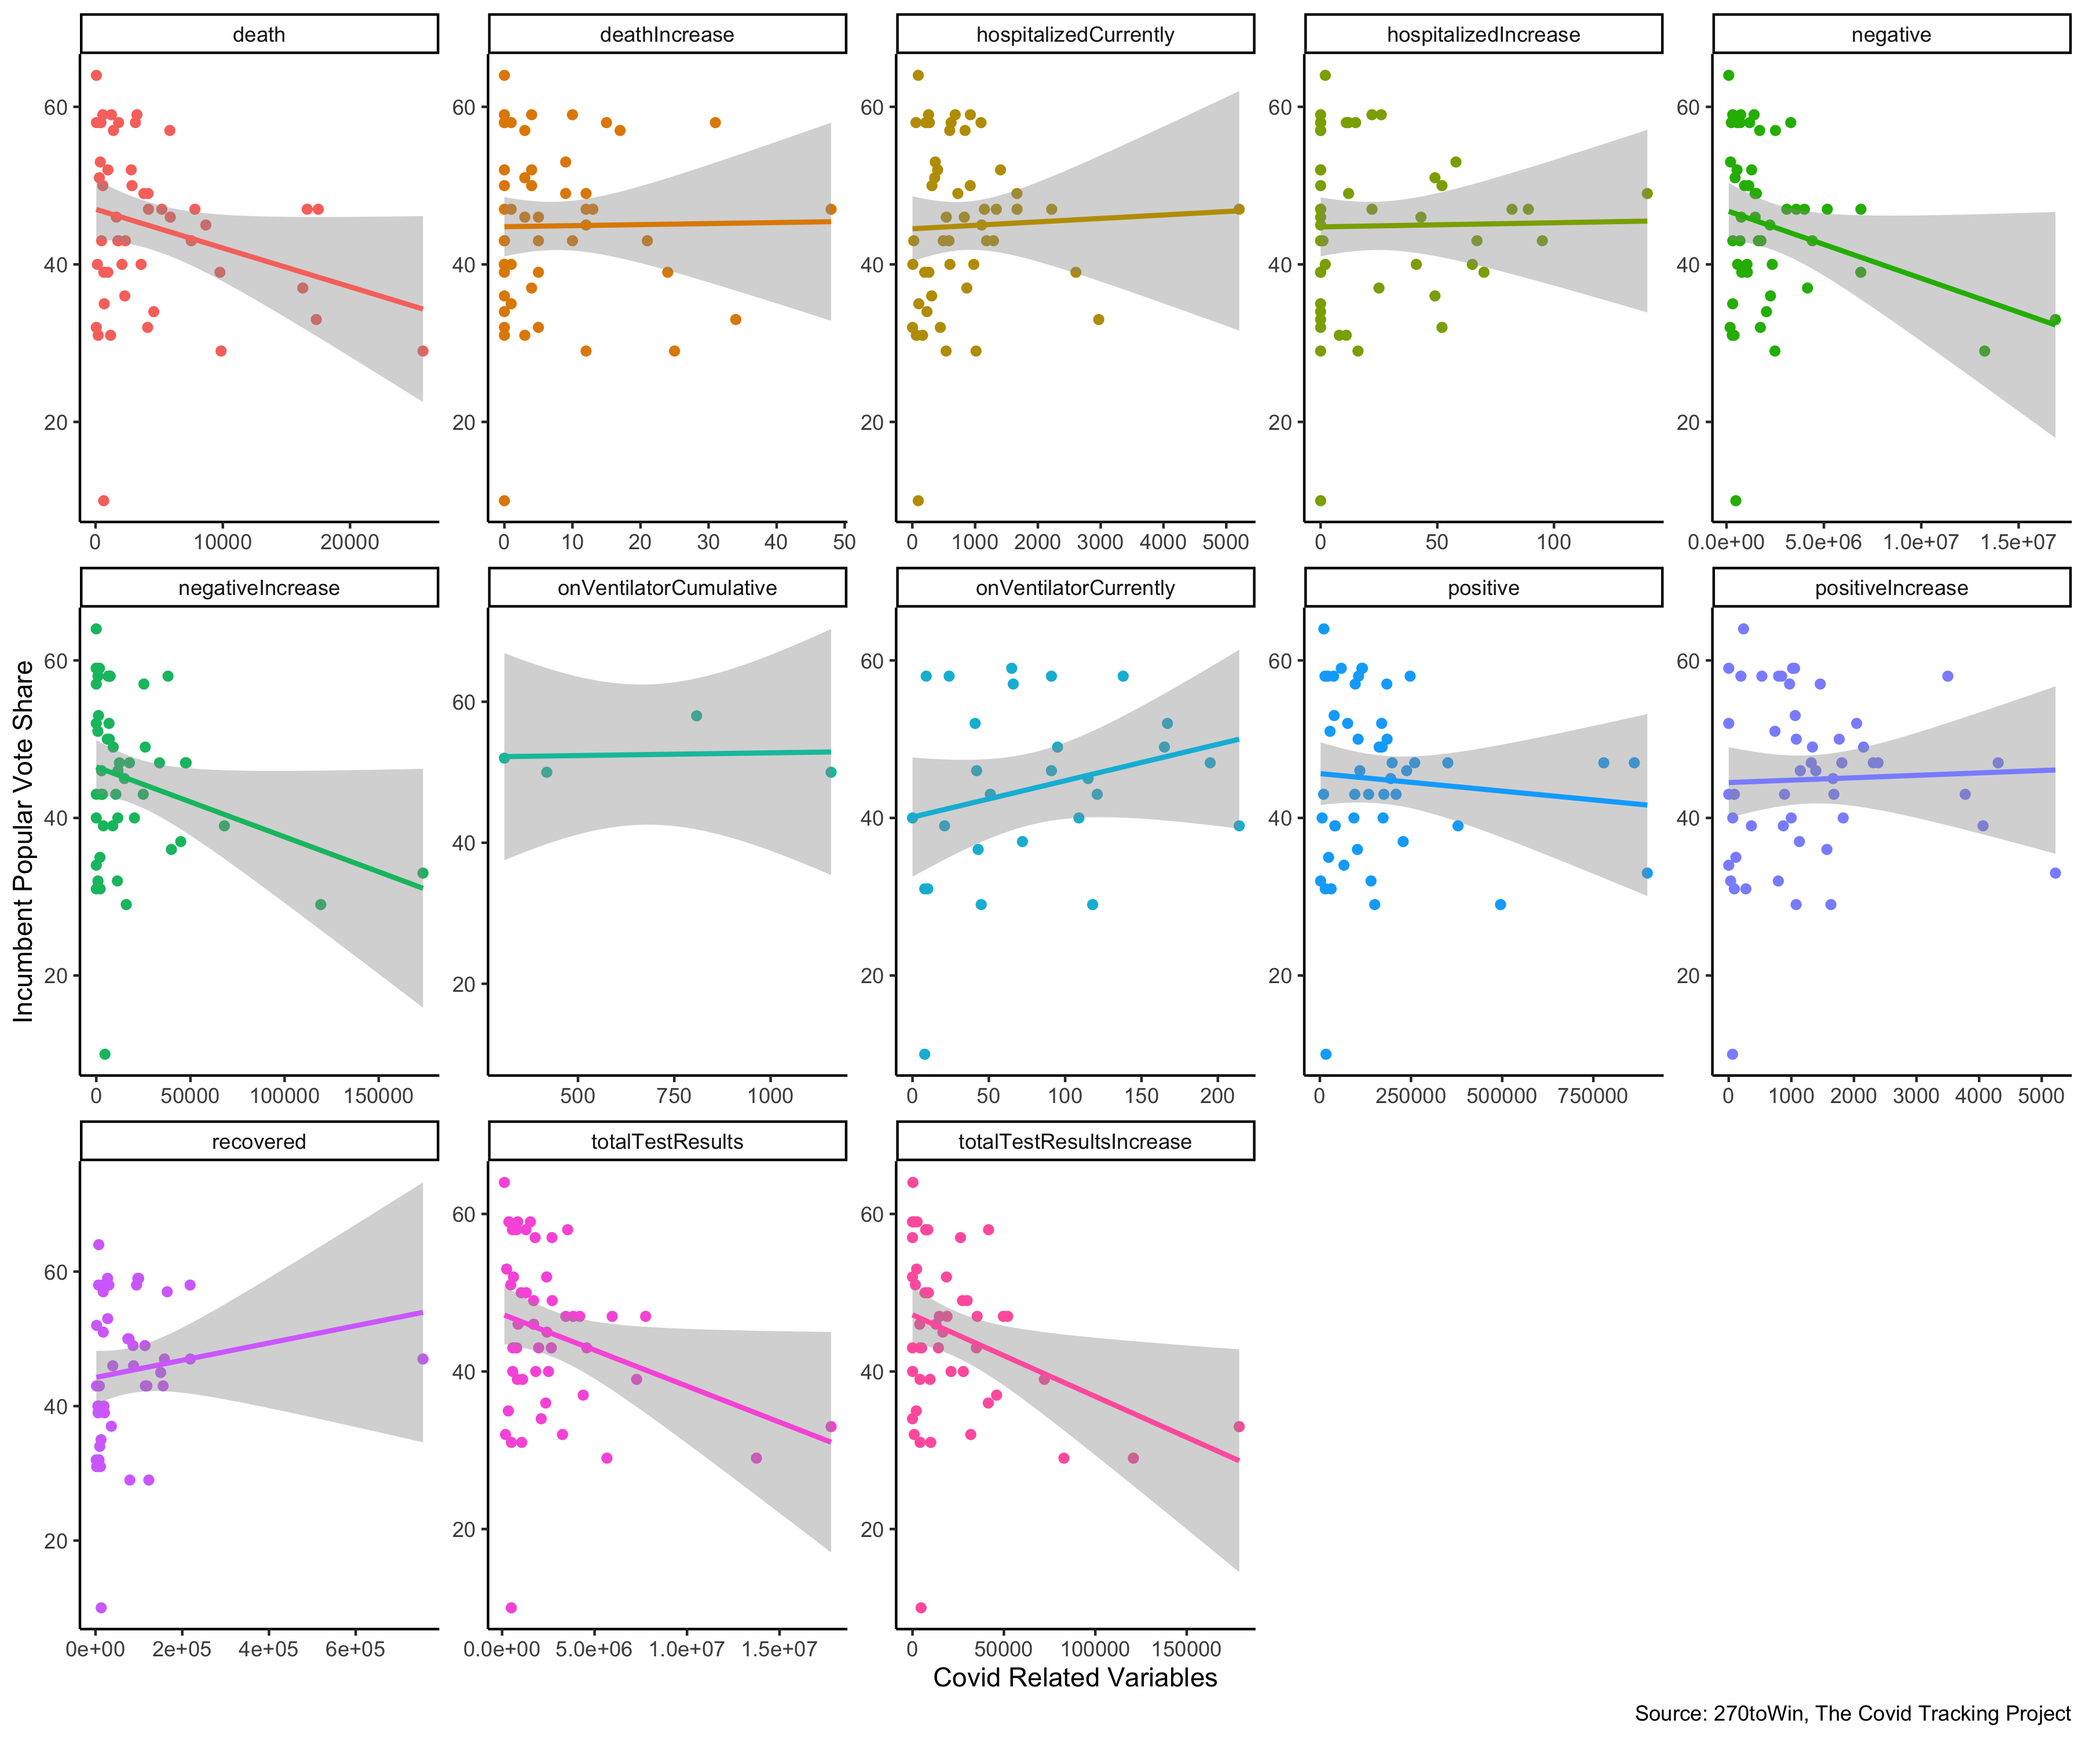
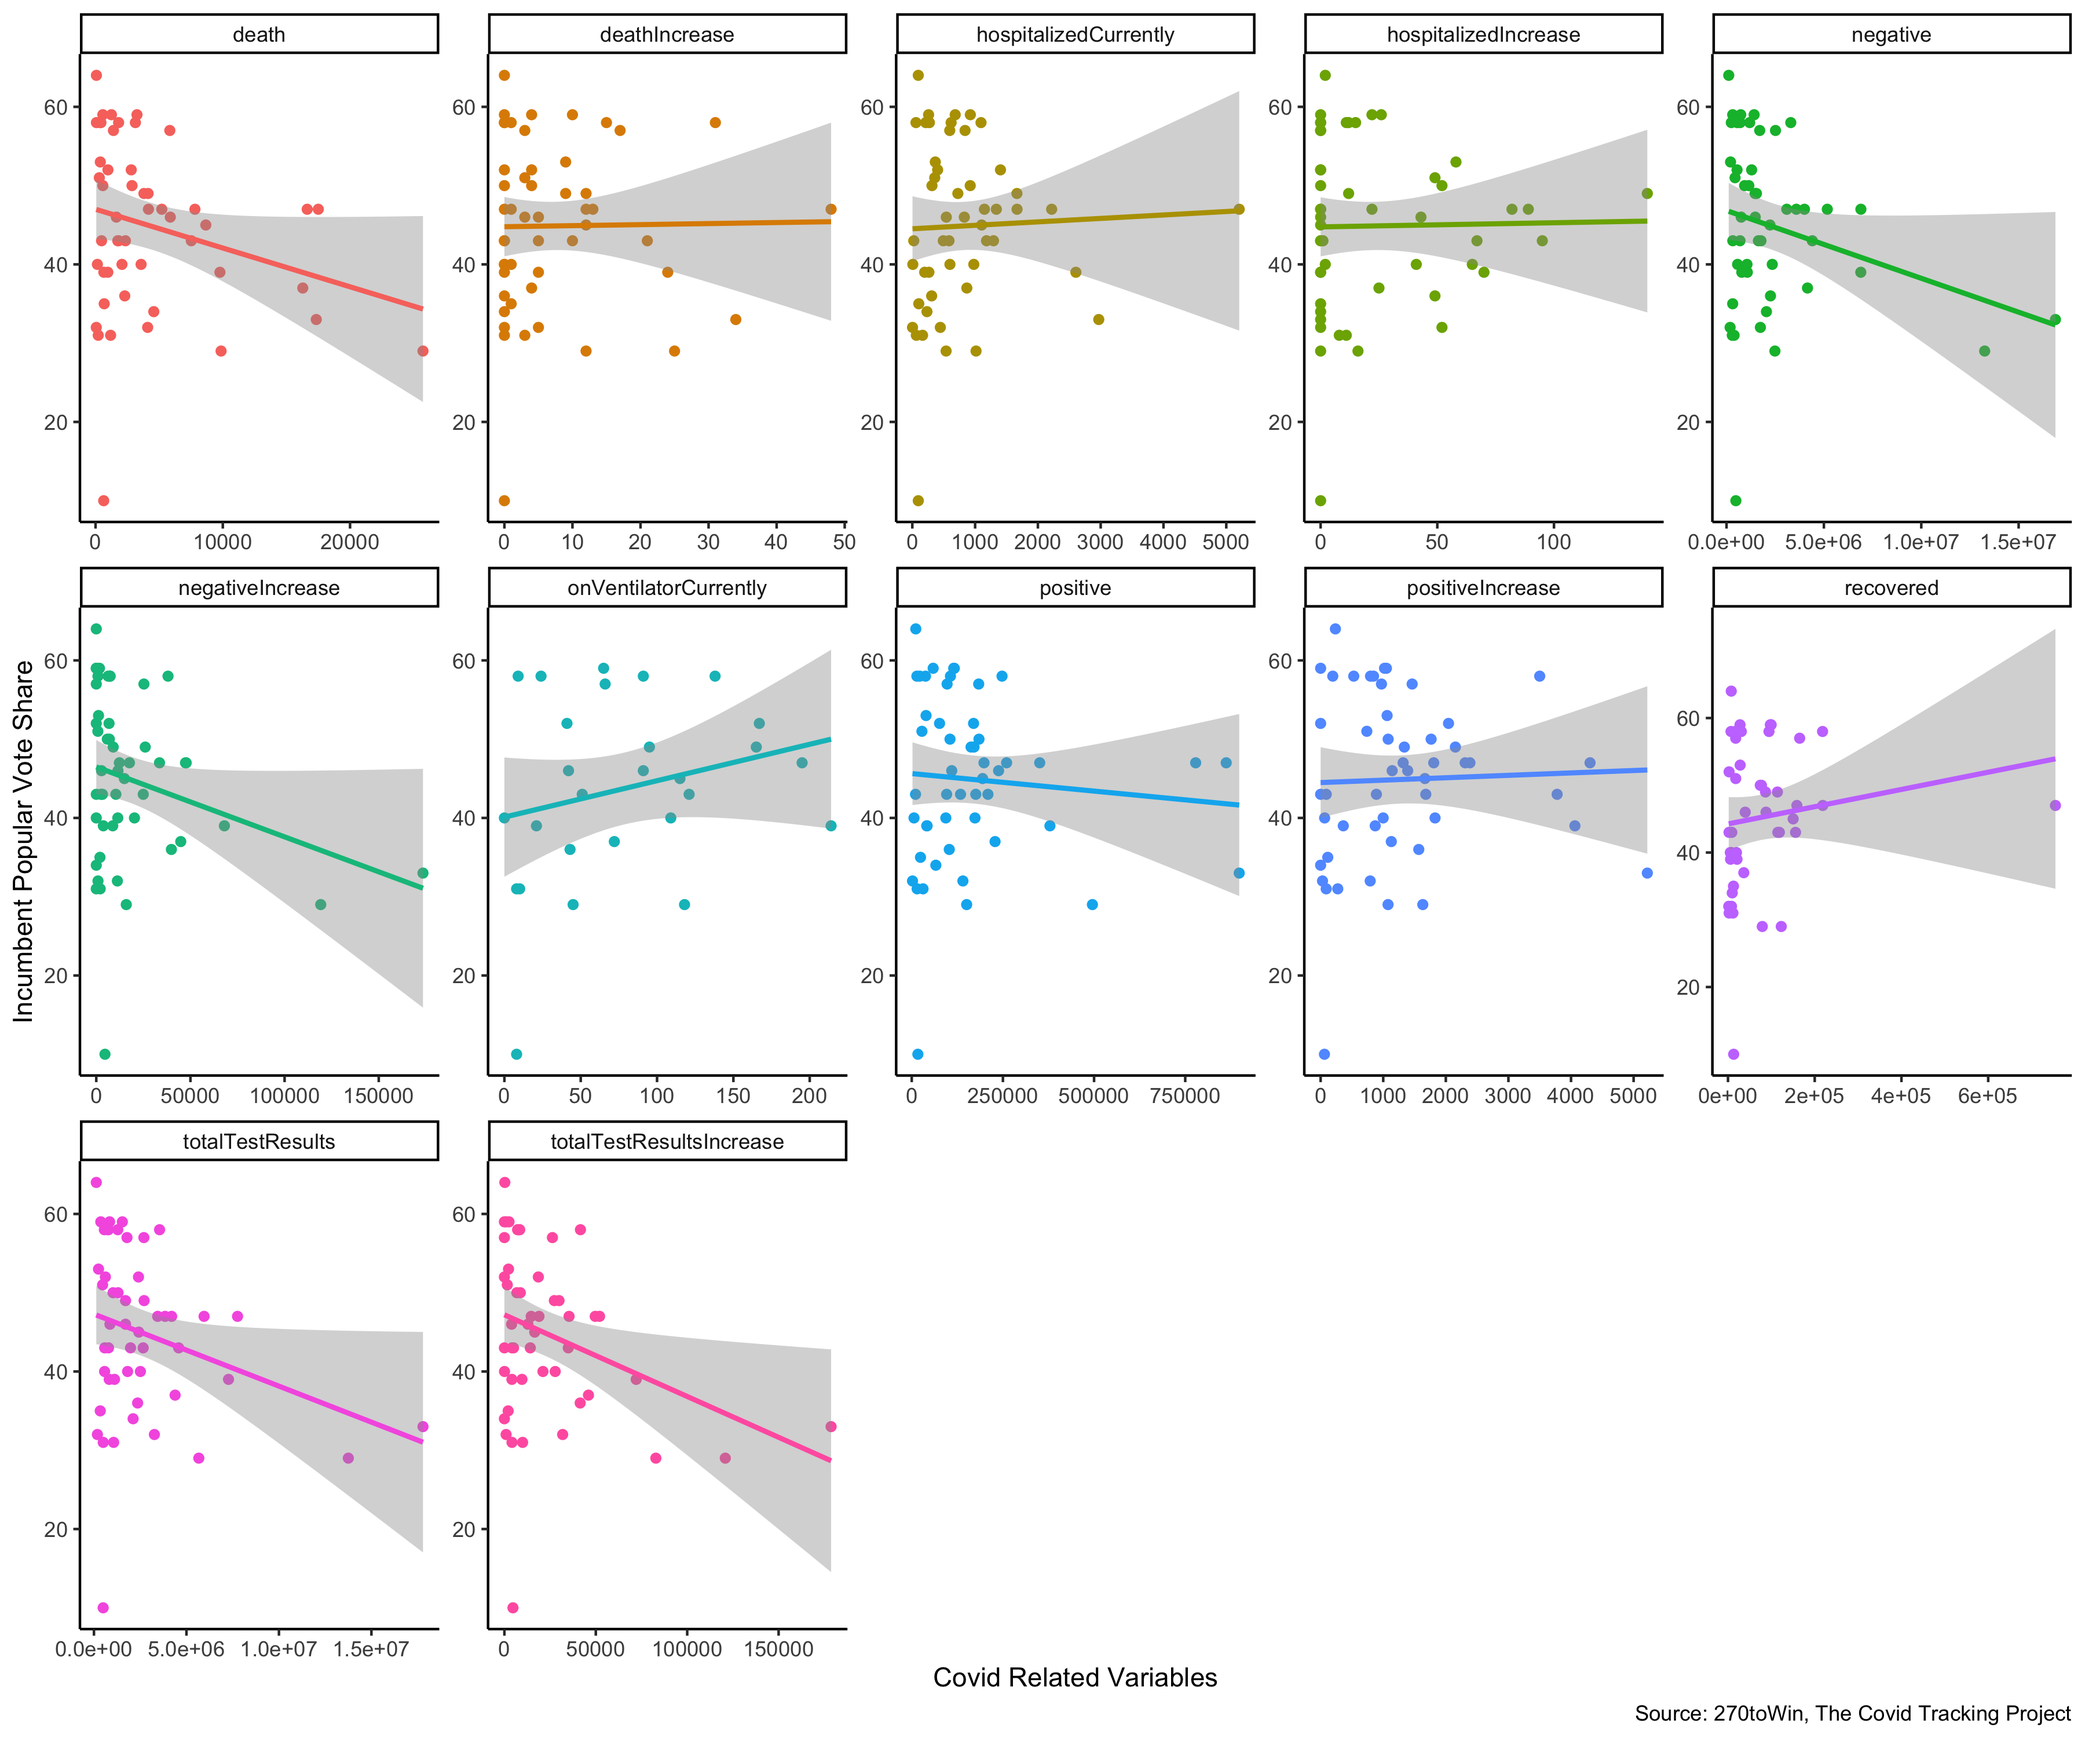
Added text

diff --git a/posts/week_7.md b/posts/week_7.md
@@ -2,6 +2,38 @@
 
 ## Overview
 
-2020 has been hit the hardest by Covid-19. In fact, Covid-19 has been a relevant apolitical shock that may have an impact on the upcoming election. Considering Trump's mismanagement of the handling the virus and the pandemic being the core theme during the recent presidential debates, one might ask if the Covid-19 pandemic is a possible shock that might affect the general election. To further understand if the Covid-19 is a shock, we can look at how the relationship between the effects of the Covid-19 pandemic and polling averages. 
+2020 has been hit the hardest by Covid-19. In fact, Covid-19 has been a relevant apolitical shock that can potentially have an impact on the upcoming election. Considering Trump's mismanagement of handling the virus and the pandemic being the core theme during the recent presidential debates, one might ask if the Covid-19 pandemic is a possible shock that might affect the general election. To further understand if the Covid-19 is a shock, we can look at the relationship between the effects of the Covid-19 pandemic and polling averages for states. 
 
-## 
+## Covid Death Rates and Positivity Rates By State
+
+![](../figures/state_covid.png)
+Figure 1.
+
+![](../figures/death_covid.png)
+Figure 2.
+
+Before we delve into how the pandemic might affect Trump's vote share, we should pay attention to how the pandemic is affecting states in general.
++ According to Figure 1, we can see that Covid positivity rate by state varies although it is quite high for states like **Idaho and South Dakota**. 
++ While the positivity rate is generally less than **0.15**, some states are worse off than others. It seems that the midwest and south have higher positivity rates than the northeast for example. 
++ According to Figure 2, the death rate is generally below **0.005**. 
++ **States with high positivty rates also seem to have high death rates as well.**
+
+## Analyzing the Effects of the Covid Pandemic on Trump's Vote Share
+
+![](../figures/Incumbent_covid.png)
+Figure 3.
+
+Now that we have a better understanding of what the pandemic is like in America, we can look at how the pandemic might affect Trump's vote share. In order to analyze such effects, I looked at data from The Coronavirus Tracking Project and 270toWin. 270toWin had recent state polling averages from legitimate pollsters. 
+
++ According to Figure 3, we can actually see that important Covid related variables like deathIncrease, positiveIncrease, and hospitalizedIncrease are **weakly correlated** with Trump's vote share.
++ It's interesting to note that negativeIncrease had a negative correlation with Trump's vote share. This could be because states that had a large increase of negative cases were states that are more liberal in nature. 
+
+## Conclusion
+
+Based on Figure 3, it seems like the Coronavirus pandemic, a potential nonpolitical shock, did not seem to have much of an impact on Trump's vote share. This is very interesting because the Coronavirus pandemic has been the hot topic in America and its media. It's tough to say how much of an impact the pandemic might affect Trump's predicted vote share because the the pandemic did have indirect effects on things like the economy, which is a fundamental that is generally a predictor for the election. In addition, some states are potentially ardent supporters for Trump even though they may have a high number of coronavirus cases, which may explain the weak correlations seen in Figure 3. Given that election periods have never really had something like the Coronavirus pandemic, I am intrigued by how everything will play out at the end. 
+
+
+
+
+
+
